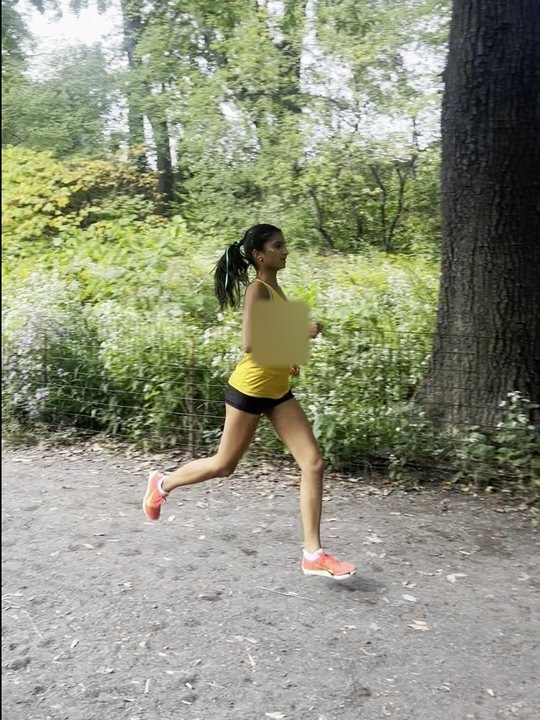
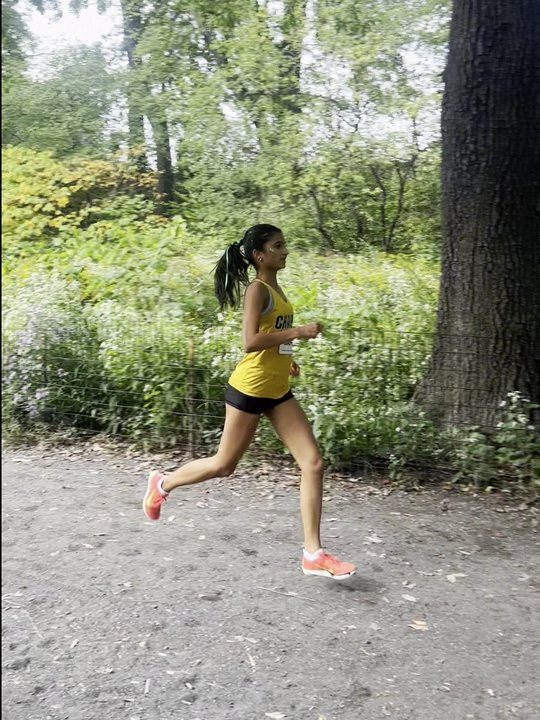
Update README and site configuration for photo consent; replace blurred versions with actual images

Changed region(s): [[0.4444, 0.3972, 0.5926, 0.5194]]

diff --git a/src/data/site.ts b/src/data/site.ts
@@ -11,9 +11,9 @@ export const site = {
   // pending items outlined, and noindex. Set to false before launch.
   review: true,
 
-  // A parent's written OK for Amalia's photos (blurred versions only): note
-  // the date and who gave it here when it arrives. Set only by the site's
-  // builder once that written OK is in hand.
+  // A parent's written OK for Amalia's photos and clips as shown (her school
+  // name and race-bib name are visible): note the date and who gave it here
+  // when it arrives. Set only by the site's builder once that OK is in hand.
   photosConsent: false,
 
   // The version that goes live once review is off: 'photos' only once

diff --git a/README.md b/README.md
@@ -26,7 +26,7 @@ npm run preview  # serves dist/ to check the build
 | Pages, one file each | `src/pages/[...v]/` |
 | Header, footer, Goal Ring, bib maker and other parts | `src/components/` |
 | Colours, fonts, spacing and motion | `src/styles/global.css` |
-| Amalia's photos and running loops (blurred versions only) | `media/` |
+| Amalia's photos and running loops | `media/` |
 | Share image and icons | `public/` |
 
 Anything not known yet is `null` in `site.ts` or `copy.ts`, and the page shows a
@@ -46,15 +46,16 @@ are stand-ins that need Amalia's own words before launch.
   those parts on once the confirmations are in writing.
 
 Photos of anyone under 18 go live only with a parent's or guardian's written OK. The
-photos and loops in `media/` are the blurred versions (school lettering, race-bib names
-and bystanders removed). They are copied into a build only when a page links to them, so
-the version without photos never ships them.
+photos and loops in `media/` are shown as they are, including the school name on her
+singlet and the name on her race bib, so that OK needs to cover them as shown. They are
+copied into a build only when a page links to them, so the version without photos never
+ships them.
 
 ## Going live
 
 1. Fill in `site.ts` and replace the `DRAFT(...)` lines.
 2. Set `review: false`. The site goes live without photos. To go live with Amalia's
-   photos (blurred versions only), once a parent's written OK is in, change this one line
+   photos, once a parent's written OK is in, change this one line
    in `src/data/site.ts`, noting the date and who gave the OK in the comment above it:
    `photosConsent: false,` → `photosConsent: true,`
 3. Host on any static host: build command `npm run build`, output folder `dist`, and an
